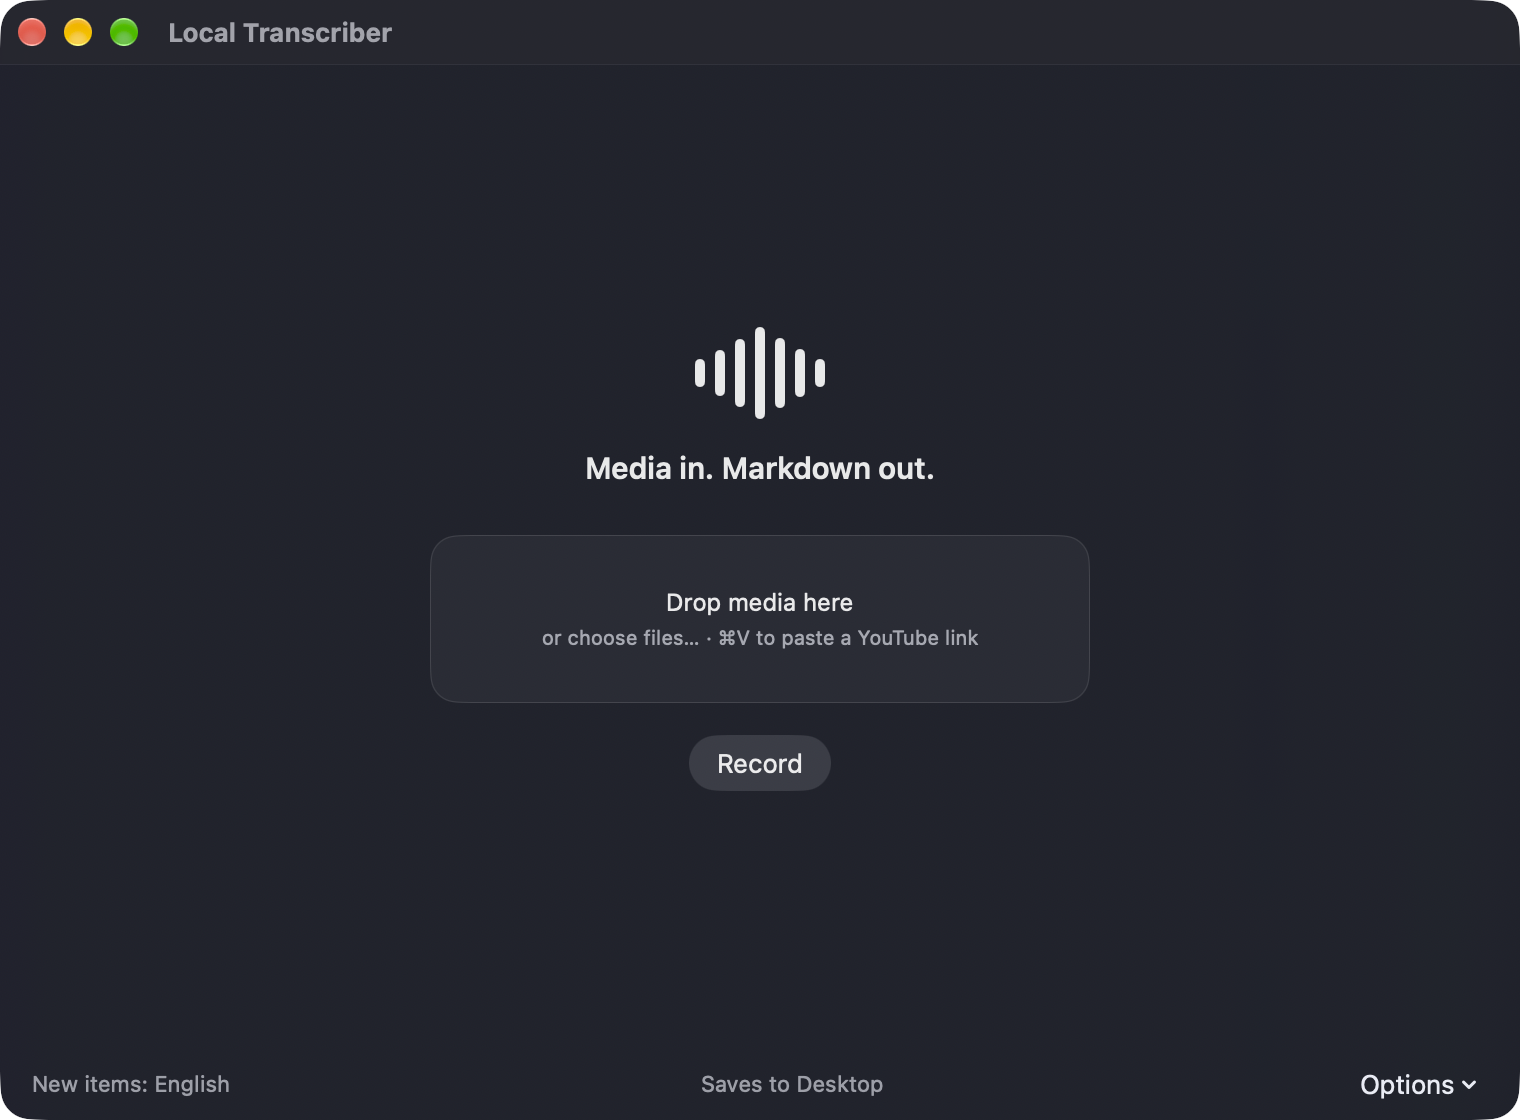
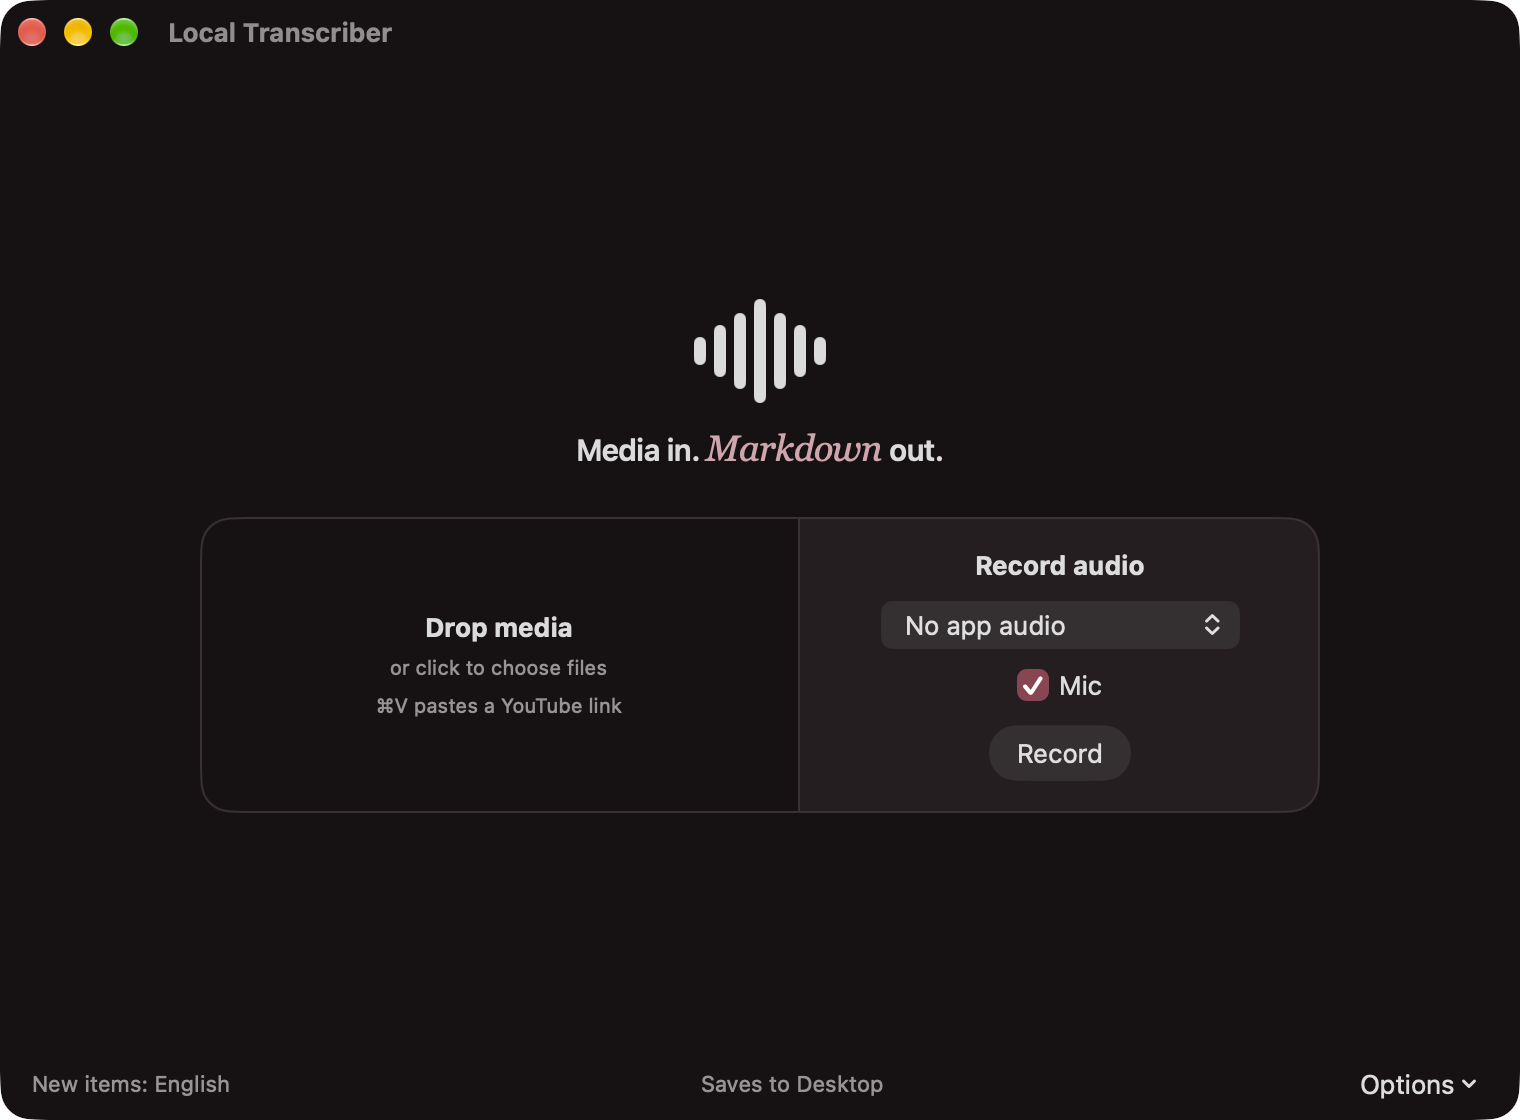
Publish v0.5.0 website and Journal update (LTR-30)

Changed region(s): [[0.0, 0.0, 1.0, 1.0], [0.6493, 0.6562, 0.7421, 0.6875], [0.6493, 0.5938, 0.7421, 0.625]]

diff --git a/website/journal/0.5.0/index.html b/website/journal/0.5.0/index.html
@@ -3,18 +3,18 @@
 <head>
 <meta charset="utf-8">
 <meta name="viewport" content="width=device-width, initial-scale=1">
-<title>0.4.0: Making its own media - Local Transcriber Journal</title>
-<meta name="description" content="Local Transcriber used to transcribe media that already existed. 0.4.0 lets it record its own and hands the recording to the same queue as everything else.">
+<title>0.5.0: The same tool, finished - Local Transcriber Journal</title>
+<meta name="description" content="0.5.0 keeps everything Local Transcriber could already do and refines how it looks, reads and is operated: the look and voice of the site it comes from, with the Mac's own controls.">
 <meta name="color-scheme" content="light dark">
 <meta name="theme-color" content="#f3f0ea" media="(prefers-color-scheme: light)">
 <meta name="theme-color" content="#171214" media="(prefers-color-scheme: dark)">
-<link rel="canonical" href="https://transcribe.wavesweb.nl/journal/0.4.0/">
+<link rel="canonical" href="https://transcribe.wavesweb.nl/journal/0.5.0/">
 <meta property="og:type" content="article">
 <meta property="og:site_name" content="Local Transcriber">
 <meta property="og:locale" content="en_US">
-<meta property="og:url" content="https://transcribe.wavesweb.nl/journal/0.4.0/">
-<meta property="og:title" content="0.4.0: Making its own media - Local Transcriber Journal">
-<meta property="og:description" content="Local Transcriber used to transcribe media that already existed. 0.4.0 lets it record its own and hands the recording to the same queue as everything else.">
+<meta property="og:url" content="https://transcribe.wavesweb.nl/journal/0.5.0/">
+<meta property="og:title" content="0.5.0: The same tool, finished - Local Transcriber Journal">
+<meta property="og:description" content="0.5.0 keeps everything Local Transcriber could already do and refines how it looks, reads and is operated: the look and voice of the site it comes from, with the Mac's own controls.">
 <meta property="og:image" content="https://transcribe.wavesweb.nl/og.png">
 <meta property="og:image:type" content="image/png">
 <meta property="og:image:width" content="1200">
@@ -77,30 +77,30 @@
     <article class="journal-grid" id="top">
       <div>
         <a class="back" href="/journal/">&larr; Journal</a>
-        <p class="journal-meta">0.4.0<br>Oct 6–7, 2026<br>GitHub Release</p>
+        <p class="journal-meta">0.5.0<br>Oct 7–8, 2026<br>GitHub Release</p>
       </div>
       <div>
-        <h1>Making its own media</h1>
-        <p class="lead">Until 0.4.0 Local Transcriber only worked with media that already existed. This version lets it make that media itself, and stops there.</p>
+        <h1>The same tool, finished</h1>
+        <p class="lead">0.5.0 can do everything 0.4.0 could, and nothing more. What changed is how that work is presented and operated: how the window is arranged, how recording is set up and how the app speaks. It now belongs to the same family as this site, and it still behaves like a Mac app.</p>
         <div class="prose">
-          <h2>Why record at all</h2>
-          <p>Sometimes the thing to transcribe isn't a file yet: something said into the microphone, or audio playing in another app. Getting it in meant opening a different recorder, saving a file, finding it and dropping it onto the window. That is the same kind of repeated step 0.2 took out.</p>
-          <p>The obvious next step looks like a meeting assistant: listen all the time, transcribe live, separate the speakers, write a summary. I didn't want that. A recording had to become the same kind of media the app already handled, and nothing more.</p>
-          <h2>One more way in</h2>
-          <p>Record sits next to Add Files. It opens a small panel with two choices: the microphone, or one running app with the microphone as an option. Nothing is captured until you press Start Recording, and while it runs the window shows what is being recorded and for how long.</p>
-          <p>Stop saves one M4A file to your output folder, named after the time and the source, and adds it to the queue as if you had dropped it there. It is transcribed on the Mac like any other job, and the timestamped Markdown lands next to the recording, which stays as the source and is never deleted automatically.</p>
-          <h2>One app, not the whole Mac</h2>
-          <p>For app audio you choose one running app, and Local Transcriber asks macOS to capture that app only. Recording the whole system is not offered. A recording should stay tied to what you chose to record.</p>
-          <p>That choice decided how it was built. My first attempt used Core Audio process taps, but an app's sound often comes from a helper process: Safari, for example, plays through a WebKit helper. Recording "Safari" would have meant finding and following those helpers myself. ScreenCaptureKit already counts a helper's audio as part of its app, so it replaced the taps.</p>
-          <p>App audio uses the macOS Screen &amp; System Audio Recording permission, and the microphone uses its own. Each is requested the first time you use that kind of recording, not at launch. Local Transcriber does not save or retain video or screen recordings.</p>
-          <h2>Most of the work doesn't show</h2>
-          <p>Recording starts only once there is an output folder to save into. While it runs, nothing is written there: the audio stays in the app's own storage and moves to the folder only when it is complete and checked. If the folder disappears in the meantime, the app holds on to the recording and asks where to save it. If no sound arrives for ten seconds, the window says so, without guessing that a permission is missing; a denied permission is reported only when macOS reports it.</p>
-          <p>0.4.0 shipped signed and notarized, and the app from the final DMG transcribed a recording, a local file and a YouTube link.</p>
+          <h2>Why a small utility needs an identity</h2>
+          <p>Until 0.4 the window grew one release at a time: a drop target, an Add Files button, a Record button that opened a popover, a Clear button that disappeared while the queue ran. Each piece was decided when its feature arrived, and each did its job. What the window never had was a pass over the whole, and next to the site it came from, with its warm paper, wine accent and seven-bar mark, it looked like a different product.</p>
+          <p>A tool I use every day deserved the same care in how it looks as in how it works. That didn't need new features. It needed the existing ones arranged, colored and worded together.</p>
+          <h2>Wavesweb DNA, native Mac grammar</h2>
+          <p>That was the rule for the whole release. Wavesweb supplies the character: the palette, the serif accent, the spacing, the mark and the way the app talks. macOS keeps the grammar: controls, keyboard and focus, windows and accessibility. The goal was never to turn a SwiftUI app into a web page.</p>
+          <p>Before any app code changed, the direction was written down as a contract and tried in throwaway SwiftUI prototypes at the 640 × 420 minimum window, in light, dark and Increase Contrast. Then it was applied. The window ground is the site's paper color in light and dark, continued under the title bar. The empty window is one surface with two zones: drop or choose media on the left, record on the right. The Record popover is gone, so the source you are about to record is always visible. Once there are jobs, Add Files, recording and Transcribe share one action bar, and Clear Queue lives in the queue header, disabled while a job runs instead of vanishing.</p>
+          <p>The voice changed with it. Messages say what happened, then what to do, and keep every fact. “Local Transcriber may not use the microphone. Allow it in …” became “Local Transcriber isn’t allowed to use the microphone. Turn it on in System Settings › Privacy &amp; Security › Microphone.”</p>
+          <h2>What I left alone</h2>
+          <p>Wine appears in two places: the fill of the main button and the checkboxes. Focus rings, pickers and menus keep the accent color you chose for your Mac. An accent only means something when it is rare. On the main action it says where to press; spread over pickers, menus and text it would compete with the system's own signals and be harder to read in dark mode.</p>
+          <p>Drag and drop, ⌘V, the file panels, the Options menu, Finder reveal and the window chrome are the system’s, unchanged. Light and dark follow macOS; there is no theme switch and no accent picker. The mark never moves, not even while recording, because a moving wave would pretend to be a level meter. The app icon is the same.</p>
+          <p>Staying native has a price I accepted. The app picker is a standard menu, so a long app name is cut off at the end rather than in the middle, as the design asked. A custom control would fix that and lose the native behavior; the full name is in the menu and its tooltip.</p>
+          <h2>Nothing new to do</h2>
+          <p>The queue, the recording sources, the permissions and the timestamped Markdown are the same as in 0.4.0; what changed is how you reach and read them. Keeping it that way took some restraint: a redesign is an easy moment to slip in a feature, and this release was meant to show that identity and voice can change without one.</p>
+          <p>0.5.0 shipped signed and notarized, and the app from the final DMG transcribed a local file, a YouTube link and a recording.</p>
         </div>
         <nav aria-label="Journal">
           <a class="back" href="/journal/">&larr; Back to the Journal</a>
-          <a class="back" href="/journal/0.3.0/" rel="prev">Earlier story: 0.3.0</a>
-          <a class="back" href="/journal/0.5.0/" rel="next">Later story: 0.5.0</a>
+          <a class="back" href="/journal/0.4.0/" rel="prev">Earlier story: 0.4.0</a>
         </nav>
       </div>
     </article>

diff --git a/website/index.html b/website/index.html
@@ -88,14 +88,14 @@
         with Apple's on-device speech stack. No cloud transcription service, no account.
       </p>
       <div class="actions">
-        <a class="btn" href="https://github.com/loneborz/local-transcriber/releases/download/v0.4.0/LocalTranscriber-0.4.0.dmg">
+        <a class="btn" href="https://github.com/loneborz/local-transcriber/releases/download/v0.5.0/LocalTranscriber-0.5.0.dmg">
           <svg viewBox="0 0 24 24" width="18" height="18" aria-hidden="true" focusable="false"><path d="M12 4v11m0 0-4.5-4.5M12 15l4.5-4.5M5 19.5h14"/></svg>
           Download for Mac
         </a>
         <a class="text-link" href="https://github.com/loneborz/local-transcriber" target="_blank" rel="noopener noreferrer">Source on GitHub</a>
       </div>
       <ul class="reqs" aria-label="Download details">
-        <li>Version 0.4.0</li>
+        <li>Version 0.5.0</li>
         <li>macOS 26 or later</li>
         <li>Apple silicon</li>
         <li>Notarized DMG, 15&nbsp;MB</li>
@@ -105,16 +105,16 @@
     <div class="hero-visual">
       <figure class="shot">
         <img class="shot-light" src="assets/queue-light.webp" width="1280" height="848"
-             alt="Local Transcriber after a run: Add Files and Record buttons, a summary line reading 3 succeeded, 51.3s of media, and three completed jobs, the local file garden-notes.m4a, the YouTube video Me at the zoo and an app-audio recording from QuickTime Player, each saved as a Markdown file.">
+             alt="Local Transcriber after a run: an action bar with Add Files, an app-audio picker set to QuickTime Player, a Mic checkbox and Record; a summary line reading 3 succeeded, 58.9s of media, with Clear Queue beside it; and three completed jobs, the local file garden-notes.m4a, the YouTube video Me at the zoo and an app-audio recording from QuickTime Player, each saved as a Markdown file.">
         <img class="shot-dark" src="assets/queue-dark.webp" width="1280" height="848"
-             alt="Local Transcriber after a run: Add Files and Record buttons, a summary line reading 3 succeeded, 51.3s of media, and three completed jobs, the local file garden-notes.m4a, the YouTube video Me at the zoo and an app-audio recording from QuickTime Player, each saved as a Markdown file.">
+             alt="Local Transcriber after a run: an action bar with Add Files, an app-audio picker set to QuickTime Player, a Mic checkbox and Record; a summary line reading 3 succeeded, 58.9s of media, with Clear Queue beside it; and three completed jobs, the local file garden-notes.m4a, the YouTube video Me at the zoo and an app-audio recording from QuickTime Player, each saved as a Markdown file.">
       </figure>
       <figure class="file file-float" aria-label="The saved transcript for garden-notes.m4a, opening lines">
         <figcaption class="file-bar"><span class="file-name">garden-notes.md</span><span class="file-kind">Markdown</span></figcaption>
 <pre tabindex="0"><code><span class="md-h"># garden-notes</span>
 
 <span class="md-k">**Source:**</span> `garden-notes.m4a`
-<span class="md-k">**Duration:**</span> 00:00:12
+<span class="md-k">**Duration:**</span> 00:00:10
 <span class="md-k">**Language:**</span> en-US
 <span class="md-k">**Engine:**</span> Apple SpeechAnalyzer
 <span class="md-k">**Transcriber:**</span> SpeechTranscriber
@@ -244,26 +244,26 @@ Garden notes for the 1st week of October, the tomatoes are finished for the year
     <div class="download-main">
       <h2>Download Local <em>Transcriber.</em></h2>
       <ul class="meta" aria-label="Release">
-        <li>v0.4.0</li>
+        <li>v0.5.0</li>
         <li>macOS 26+</li>
         <li>Apple silicon</li>
         <li>Signed &amp; notarized</li>
       </ul>
       <p>Open the DMG, drag Local Transcriber to Applications and open it from there.</p>
       <div class="actions">
-        <a class="btn btn-light" href="https://github.com/loneborz/local-transcriber/releases/download/v0.4.0/LocalTranscriber-0.4.0.dmg">
+        <a class="btn btn-light" href="https://github.com/loneborz/local-transcriber/releases/download/v0.5.0/LocalTranscriber-0.5.0.dmg">
           <svg viewBox="0 0 24 24" width="18" height="18" aria-hidden="true" focusable="false"><path d="M12 4v11m0 0-4.5-4.5M12 15l4.5-4.5M5 19.5h14"/></svg>
           Download for Mac
         </a>
-        <a class="text-link" href="https://github.com/loneborz/local-transcriber/releases/tag/v0.4.0" target="_blank" rel="noopener noreferrer">The release on GitHub</a>
+        <a class="text-link" href="https://github.com/loneborz/local-transcriber/releases/tag/v0.5.0" target="_blank" rel="noopener noreferrer">The release on GitHub</a>
       </div>
     </div>
 
     <dl class="manifest">
-      <div class="manifest-file"><dt class="visually-hidden">File</dt><dd><code>LocalTranscriber-0.4.0.dmg</code><span>15&nbsp;MB</span></dd></div>
+      <div class="manifest-file"><dt class="visually-hidden">File</dt><dd><code>LocalTranscriber-0.5.0.dmg</code><span>15&nbsp;MB</span></dd></div>
       <div><dt>Signing</dt><dd>The DMG and the app are signed with Developer ID and notarized by Apple.</dd></div>
       <div><dt>Hardware</dt><dd>Apple silicon only. No Intel or universal build.</dd></div>
-      <div class="manifest-hash"><dt>SHA-256</dt><dd><code class="hash">314642e327446d05cf5a72aea4a9d755ce05acfac8d610bd18ae9515f15670fc</code></dd></div>
+      <div class="manifest-hash"><dt>SHA-256</dt><dd><code class="hash">98e7d3a24fcc90794c73f0b64bdd8c1338b389e4356e8a380a0e278d2b4ca07e</code></dd></div>
       <div class="manifest-source"><dt>From source</dt><dd>Build it yourself with Xcode. See <a href="https://github.com/loneborz/local-transcriber#build-and-run" target="_blank" rel="noopener noreferrer">Build and run</a>.</dd></div>
     </dl>
   </div>

diff --git a/website/journal/index.html b/website/journal/index.html
@@ -83,6 +83,13 @@
 
     <ol class="entries">
       <li class="entry journal-grid">
+        <p class="journal-meta">0.5.0<br>Oct 7–8, 2026<br>GitHub Release</p>
+        <div>
+          <h2><a href="/journal/0.5.0/">The same tool, finished</a></h2>
+          <p>0.5.0 keeps everything Local Transcriber could already do and refines how it looks, reads and is operated: the look and voice of the site it comes from, with the Mac's own controls.</p>
+        </div>
+      </li>
+      <li class="entry journal-grid">
         <p class="journal-meta">0.4.0<br>Oct 6–7, 2026<br>GitHub Release</p>
         <div>
           <h2><a href="/journal/0.4.0/">Making its own media</a></h2>

diff --git a/README.md b/README.md
@@ -4,7 +4,7 @@
 
 Local Transcriber is a native macOS app that turns audio, video, YouTube links and your own recordings into timestamped Markdown transcripts. Speech recognition runs on your Mac with Apple's on-device speech stack; there is no cloud transcription service, no account and no model picker.
 
-![Local Transcriber after a run: Add Files and Record buttons, a summary line, and three completed jobs (a local audio file, a YouTube link and an app-audio recording) with their saved Markdown files](https://transcribe.wavesweb.nl/assets/queue.png)
+![Local Transcriber after a run: an action bar with Add Files, an app-audio picker, a Mic checkbox and Record, a summary line with Clear Queue, and three completed jobs (a local audio file, a YouTube link and an app-audio recording) with their saved Markdown files](https://transcribe.wavesweb.nl/assets/queue.png)
 
 *A finished queue: one local file, one YouTube link and one recording, transcribed in sequence and saved to the output folder.*
 
@@ -29,7 +29,7 @@ The product boundary is deliberate: `media or URL -> local transcript package`. 
 
 ## Inputs
 
-![Local Transcriber's empty state: a waveform mark, the tagline "Media in. Markdown out.", a drop target that also opens the file picker, and a Record button](https://transcribe.wavesweb.nl/assets/empty-state.png)
+![Local Transcriber's empty workspace: a waveform mark and the tagline "Media in. Markdown out." above one surface with two zones: on the left a drop target that also opens the file picker and accepts a pasted YouTube link, on the right "Record audio" with an app-audio picker, a Mic checkbox and a Record button](https://transcribe.wavesweb.nl/assets/empty-state.png)
 
 - **Local files:** MP4, MOV, M4A, MP3 and WAV. Audio files are transcribed directly; for video, AVFoundation first extracts the audio to a temporary M4A.
 - **YouTube links:** `youtube.com` (including `www.`, `m.` and `music.`) and `youtu.be` watch, shorts, live and embed links. Playlist parameters are dropped, so a link transcribes one video.
@@ -41,8 +41,8 @@ Files with other extensions are ignored. A link that is not a supported YouTube 
 ## The queue
 
 - Jobs run sequentially: `Waiting → Downloading → Transcribing → Complete | Failed`. Downloading applies to YouTube links only.
-- **Language** is set per job. A queue-level selector sets the default for new jobs, and **Apply to all** changes every job that is still waiting. A job's language is fixed once it starts.
-- Waiting jobs can be removed, **Clear** empties an idle queue, and **Retry** puts a failed job back in line. A rejected link cannot be retried, and completed jobs are never touched.
+- **Language** is set per job. **Language** in the **Options** menu sets the default for new jobs, and **Apply Language to All Waiting** changes every job that is still waiting. A job's language is fixed once it starts.
+- Waiting jobs can be removed, **Clear Queue** empties an idle queue, and **Retry** puts a failed job back in line. A rejected link cannot be retried, and completed jobs are never touched.
 - A summary line shows succeeded and failed counts, total media duration, processing time and realtime speed.
 - If an automatic save fails, the job stays complete and offers **Save Transcript…** as a manual fallback.
 
@@ -77,7 +77,7 @@ YouTube links are saved as `<video title> [<video ID>].md`. In this flat form th
 
 ### Source packages
 
-Turn on **Save YouTube links as source packages** (shown only while the queue contains a YouTube link) and each link is saved as a folder named after its video ID instead of a single file:
+Turn on **Save YouTube Links as Source Packages** in the **Options** menu (shown only while the queue contains a YouTube link) and each link is saved as a folder named after its video ID instead of a single file:
 
 ```text
 <output folder>/
@@ -126,12 +126,12 @@ YouTube audio is fetched by a small helper bundled in the app: a pinned [yt-dlp]
 
 ## Download
 
-[Download Local Transcriber 0.4.0](https://github.com/loneborz/local-transcriber/releases/download/v0.4.0/LocalTranscriber-0.4.0.dmg) (DMG, 15 MB) from the [v0.4.0 release](https://github.com/loneborz/local-transcriber/releases/tag/v0.4.0).
+[Download Local Transcriber 0.5.0](https://github.com/loneborz/local-transcriber/releases/download/v0.5.0/LocalTranscriber-0.5.0.dmg) (DMG, 15 MB) from the [v0.5.0 release](https://github.com/loneborz/local-transcriber/releases/tag/v0.5.0).
 
 - Requires macOS 26 or later on a Mac with Apple silicon. There is no Intel or universal build.
 - The DMG and the app are signed with Developer ID and notarized by Apple.
 - Open the DMG, drag Local Transcriber to Applications and open it from there. On first launch macOS asks you to confirm opening an app downloaded from the Internet.
[2 lines of base64/hex data omitted]
 
 ## Build and run
 
@@ -176,7 +176,7 @@ Cloud transcription, accounts, summarization, search or retrieval over transcrip
 
 ## Status
 
-An early, working macOS project. The queue, language handling, automatic output, source packages, retry, recording and the current interface are implemented and were verified by running the app. Version 0.4.0, which adds recording, is the current release, distributed as a notarized DMG; 0.3.0 was the first public release.
+An early, working macOS project. The queue, language handling, automatic output, source packages, retry, recording and the current interface are implemented and were verified by running the app. Version 0.5.0 is the current release, distributed as a notarized DMG. It gives the app its own visual identity and changes nothing about what it does; 0.4.0 added recording and 0.3.0 was the first public release.
 
 ## Third-party components
 
